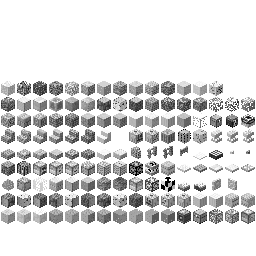
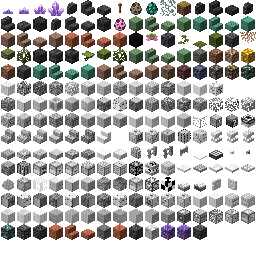
Update blocks to 1.18.2

Changed region(s): [[0.0, 0.0, 1.0, 0.3125], [0.0, 0.875, 0.8125, 0.9375]]

diff --git a/README.md b/README.md
@@ -2,6 +2,6 @@
 
 Updated [WolfieMario's Text Icon Resourcepack](http://imgur.com/a/oHvbX) to the latest Minecraft.
 
-|Items       |Blocks    |
-|------------|----------|
-|Up to 1.18.2|Up to 1.16|
+|Items       |Blocks      |
+|------------|------------|
+|Up to 1.18.2|Up to 1.18.2|
